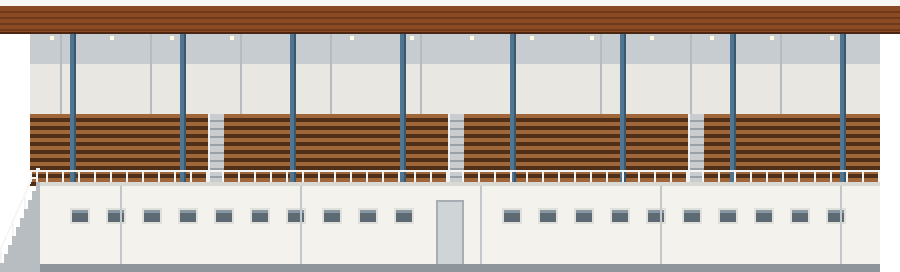
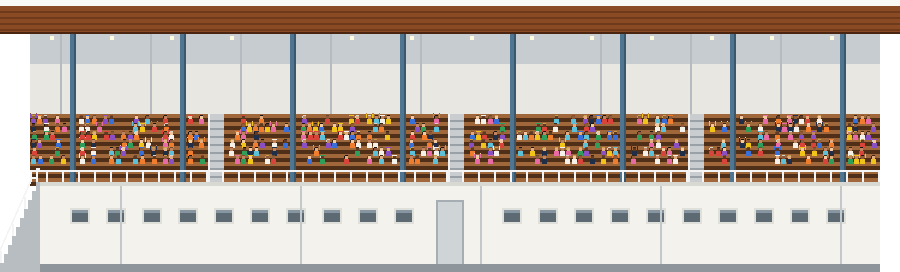
feat(run-game): Kristineberg art pass

Changed region(s): [[0.0311, 0.4118, 0.9956, 0.6176]]

diff --git a/apps/run-game/docs/level-checklist.md b/apps/run-game/docs/level-checklist.md
@@ -10,7 +10,7 @@ What each level has, in course order (`src/courses/index.ts`). ✅ means it has 
 | # | Level | Unique collectables | Custom goal | Unlockable character | Unique hat | Ride | Set piece | Last art pass |
 |---|---|---|---|---|---|---|---|---|
 | 1 | Haga | ✅ The standard fika (kaffe, kanelbulle, chokladboll, prinsesstårta), parkrun barcode | ✅ Score a goal | ⬜ | ✅ Flower crown | ✅ Goose (flies over) | ✅ Football to kick into the goal | 2026-11-18 |
-| 2 | Kristineberg | ✅ Energy drink, sports gel, banana | ✅ Long jump 10 m | ✅ Link (ride a corgi) | ✅ Sweatband | ✅ Corgi | ✅ Long jump pit | ⬜ |
+| 2 | Kristineberg | ✅ Energy drink, sports gel, banana | ✅ Long jump 10 m | ✅ Link (ride a corgi) | ✅ Sweatband | ✅ Corgi | ✅ Long jump pit | 2026-11-18 |
 | 3 | Gamla Stan | ✅ Semla, dammsugare, kardemummabulle, ale | ✅ Find the viking | ✅ Sven the Viking | ✅ Royal Guard's helmet | ✅ Royal Guard horse | ✅ Tavern under the street, down a manhole | ⬜ |
 | 4 | Huddinge | ✅ Cake in a can, wild berries, kantareller, bad mushroom (one, halfway: the screen trips for 3 s) | ✅ Deer riding deer | ⬜ | ✅ Antlers | ✅ Deer | ⬜ Flavour so far: a wild boar family running alongside, a harvester felling a pine, the granite ledge onto the deer | ⬜ |
 | 5 | Pyramids | ✅ Falafel, knafeh, koshary | ✅ Bounce across the crocodiles | ✅ Ms Crocodile | ✅ Pharaoh's headdress | ✅ Camel, rare bactrian camel | ✅ Tomb under the Sphinx, the Nile | ⬜ |
@@ -39,7 +39,7 @@ What each level has, in course order (`src/courses/index.ts`). ✅ means it has 
 | Unique hat | 0 | |
 | Ride | 4 | Halloween Town, Scoop Cruises, The Sewers, City Rooftop |
 | Set piece | 1 | Huddinge |
-| Art pass | 15 | Every level but Haga, Machu Picchu, Everest and Dino Island |
+| Art pass | 14 | Every level but Haga, Kristineberg, Machu Picchu, Everest and Dino Island |
 
 ## Also in the course standard
 
